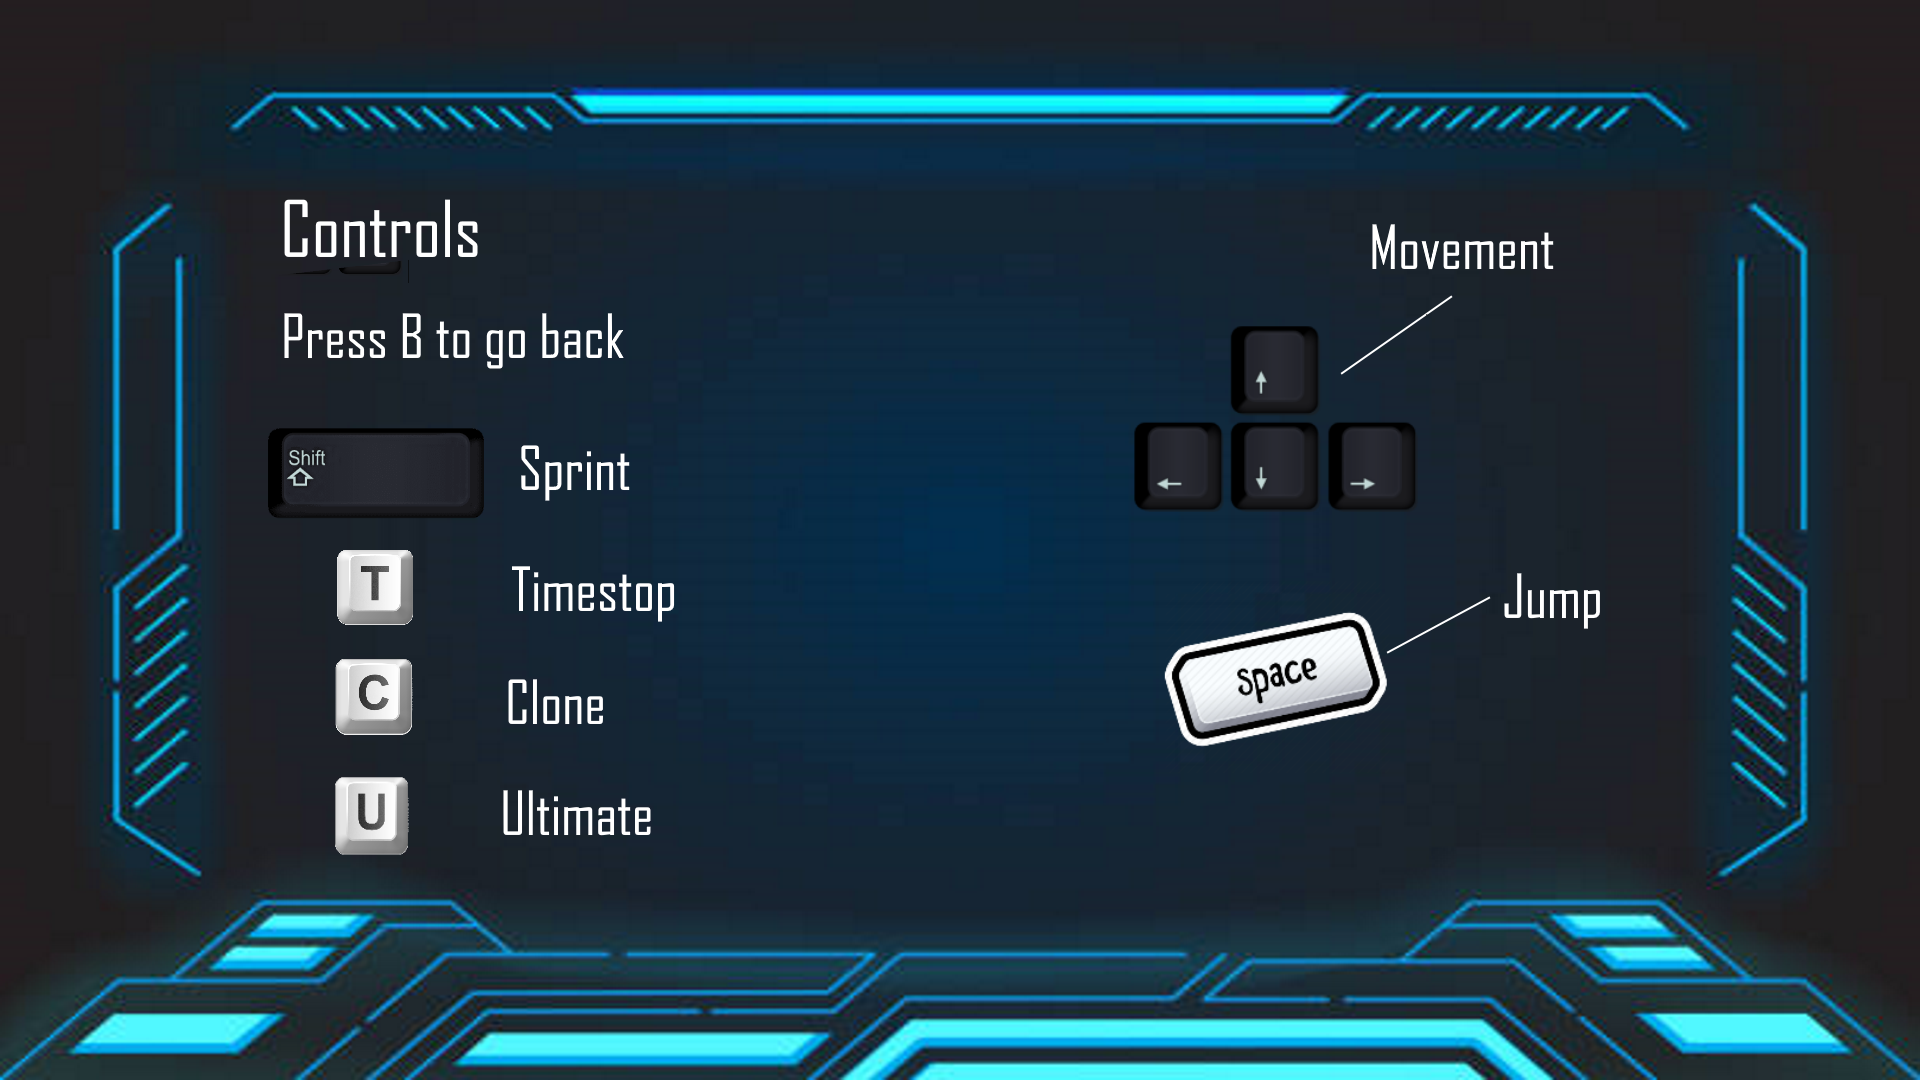
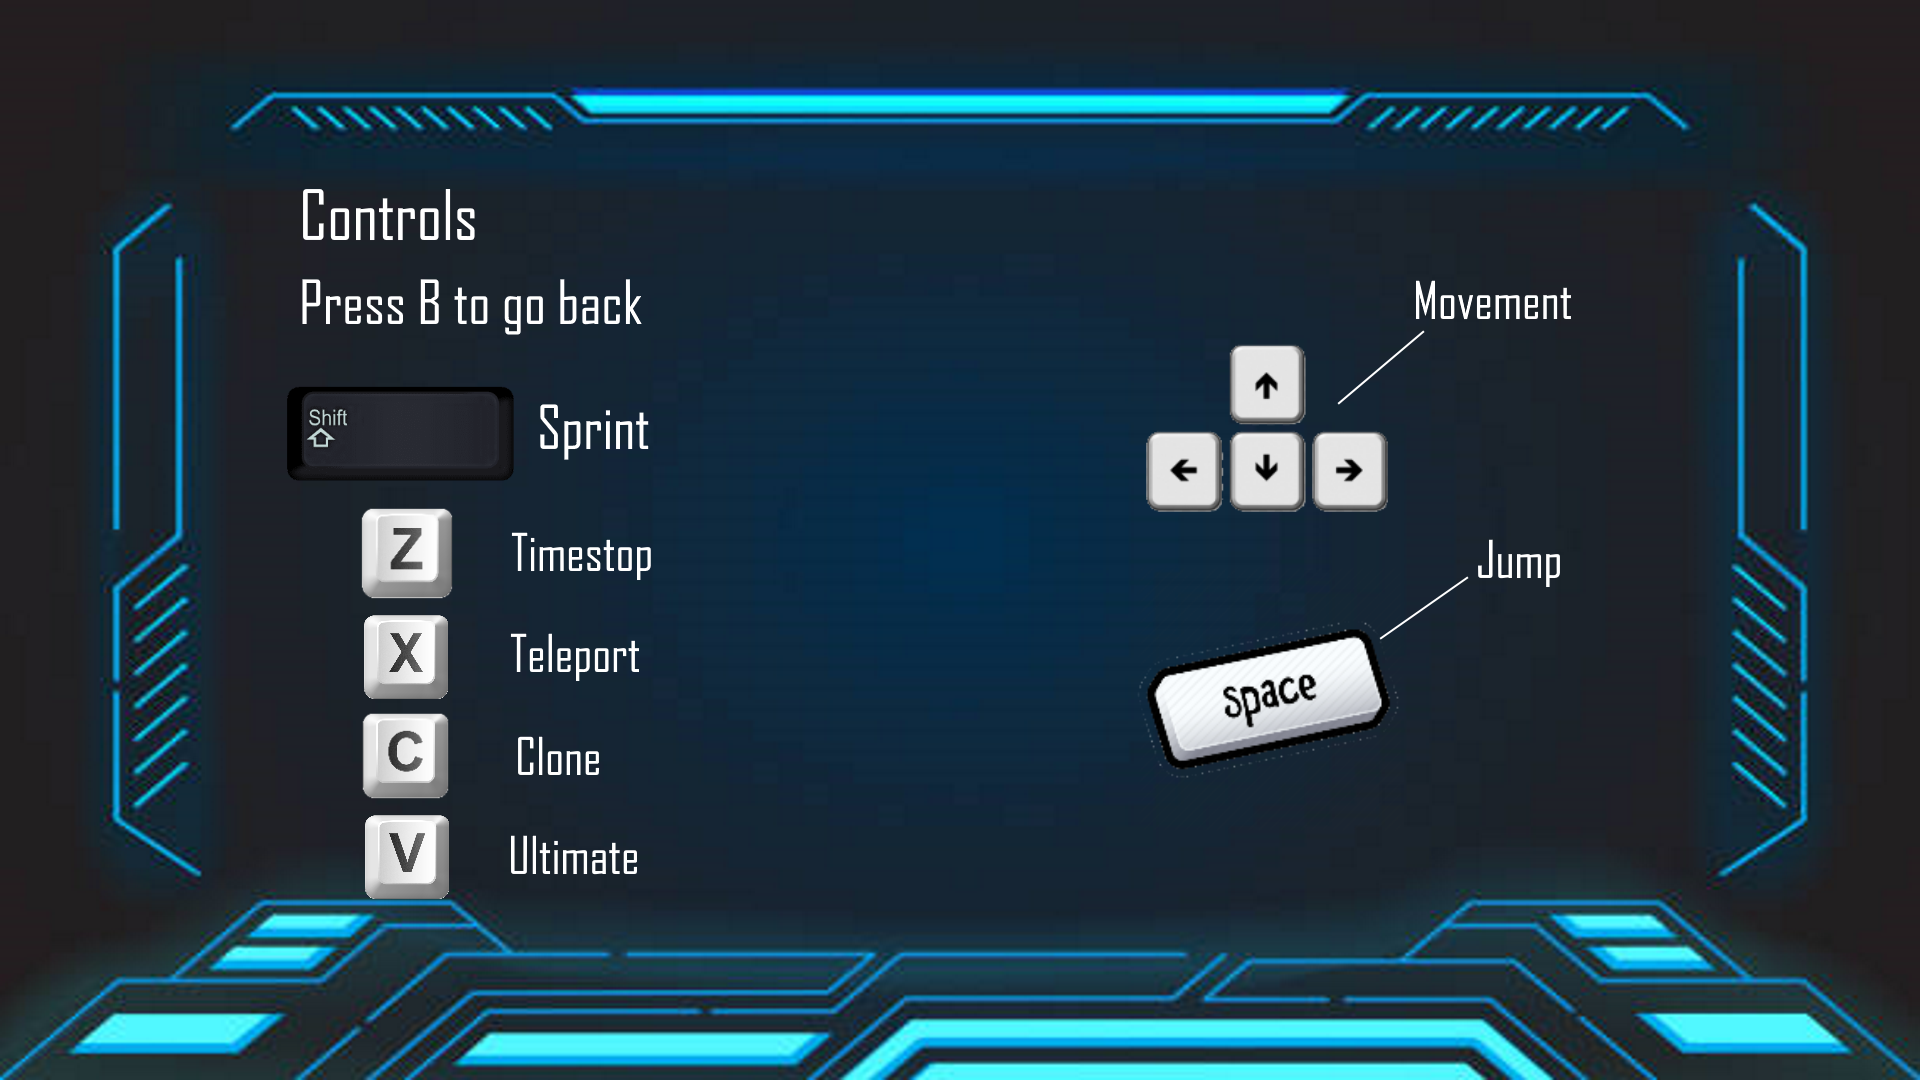
added poison effect to acid pits

diff --git a/App/Source/Scene2D/Player2D.cpp b/App/Source/Scene2D/Player2D.cpp
@@ -201,6 +201,7 @@ bool CPlayer2D::Init(void)
 	resetEnemyPos = false;
 	useUltimate = false;
 
+
 	
 
 	//CS: Create the animated sprite and setup the animation
@@ -223,6 +224,8 @@ bool CPlayer2D::Init(void)
 	powerupActive = false;
 	speedboost = false;
 	pitfallReset = false;
+	isPoisoned = false;
+	poisonTimer = 0;
 
 
 	//Set the physics to fall status by default
@@ -251,7 +254,22 @@ void CPlayer2D::Update(const double dElapsedTime)
 	if (clone == true)
 	{
 		cloneDuration += dElapsedTime;
-		
+
+	}
+
+	cInventoryItem = cInventoryManager->GetItem("Health");
+	if (isPoisoned == true)
+	{
+		cInventoryItem->Remove(0.1);
+		poisonTimer += dElapsedTime;
+		playerColour = glm::vec4(0.0, 1.0, 0.0, 1.0);
+		if (poisonTimer >= 5)
+		{
+			isPoisoned = false;
+			poisonTimer = 0;
+
+		}
+
 	}
 
 	if (cloneDuration >= 5)
@@ -558,7 +576,7 @@ void CPlayer2D::Update(const double dElapsedTime)
 			}
 		}
 
-		if (cKeyboardController->IsKeyDown(GLFW_KEY_T))
+		if (cKeyboardController->IsKeyDown(GLFW_KEY_Z))
 		{
 
 			cInventoryItem = cInventoryManager->GetItem("TimestopTimer");
@@ -590,7 +608,7 @@ void CPlayer2D::Update(const double dElapsedTime)
 		}
 	}
 
-	if (cKeyboardController->IsKeyDown(GLFW_KEY_U))
+	if (cKeyboardController->IsKeyDown(GLFW_KEY_V))
 	{
 		cInventoryItem = cInventoryManager->GetItem("Ultimate");
 
@@ -1527,10 +1545,7 @@ void CPlayer2D::InteractWithMap(void)
 		cMap2D->SetMapInfo(i32vec2Index.y + 1, i32vec2Index.x, 140);
 		break;
 	case 21:
-		pitfallReset = true;
-		CGameManager::GetInstance()->bGameToRestart = true;
-		cInventoryItem = cInventoryManager->GetItem("Lives");
-		cInventoryItem->Remove(1);
+		isPoisoned = true;
 		break;
 
 	default:
@@ -1646,7 +1661,7 @@ void CPlayer2D::SwitchFlipped(string type, int amount, float row, float col)
 
 void CPlayer2D::Teleport(void)
 {
-	if (cKeyboardController->IsKeyDown(GLFW_KEY_F) && isRemote) //Teleporting
+	if (cKeyboardController->IsKeyDown(GLFW_KEY_X) && isRemote) //Teleporting
 	{
 		if (cMap2D->GetLevel() == 2)
 		{

diff --git a/App/Source/GameStateManagement/PlayGameState.cpp b/App/Source/GameStateManagement/PlayGameState.cpp
@@ -55,6 +55,7 @@ bool CPlayGameState::Init(void)
 
 	cSoundController->LoadSound(FileSystem::getPath("Sounds\\bg_music2.ogg"), 6, true);
 
+
 	
 }
 
@@ -63,7 +64,7 @@ bool CPlayGameState::Init(void)
  */
 bool CPlayGameState::Update(const double dElapsedTime)
 {
-	if (CKeyboardController::GetInstance()->IsKeyReleased(GLFW_KEY_ESCAPE))
+	if (CKeyboardController::GetInstance()->IsKeyPressed(GLFW_KEY_ESCAPE))
 	{
 		
 
@@ -72,10 +73,11 @@ bool CPlayGameState::Update(const double dElapsedTime)
 		CKeyboardController::GetInstance()->Reset();
 
 		// Load the menu state
-	//	cSoundController->SetVolumeTo0();
+	
 		cout << "Loading MenuState" << endl;
-		CGameStateManager::GetInstance()->SetActiveGameState("MenuState");
+		CGameStateManager::GetInstance()-> SetActiveGameState("MenuState");
 		CGameStateManager::GetInstance()->OffPauseGameState();
+		//cSoundController->PlaySoundByID(14);
 		return true;
 
 	}

diff --git a/App/Source/Scene2D/Scene2D.cpp b/App/Source/Scene2D/Scene2D.cpp
@@ -371,6 +371,7 @@ bool CScene2D::Init(void)
 	cSoundController->LoadSound(FileSystem::getPath("Sounds\\player_pickup.ogg"), 12, true);
 	cSoundController->LoadSound(FileSystem::getPath("Sounds\\enemy1.ogg"), 13, true);
 	//sounds 15,16 in the menustate
+	//cSoundController->LoadSound(FileSystem::getPath("Sounds\\music_menu.ogg"), 14, true, true);
 	cSoundController->LoadSound(FileSystem::getPath("Sounds\\player_clone.ogg"), 16, true);
 	cSoundController->LoadSound(FileSystem::getPath("Sounds\\respawn_clone.ogg"), 17, true);
 	cSoundController->LoadSound(FileSystem::getPath("Sounds\\laser.ogg"), 18, true);
@@ -503,6 +504,8 @@ void CScene2D::Update(const double dElapsedTime)
 	if (cGameManager->bPlayerLost == false) {
 		cSoundController->PlaySoundByID(6);
 	}
+
+	
 
 	if (cGameManager->bGameToRestart == true)
 	{

diff --git a/App/Source/GameStateManagement/MenuState.cpp b/App/Source/GameStateManagement/MenuState.cpp
@@ -65,10 +65,13 @@ bool CMenuState::Init(void)
 	CShaderManager::GetInstance()->activeShader->setInt("texture1", 0);
 	cGameManager = CGameManager::GetInstance();
 
+
 	//Create Background Entity
 	background = new CBackgroundEntity("Image/MenuScreen.png");
 	background->SetShader("2DShader");
 	background->Init();
+
+	
 
 	// Setup Dear ImGui context
 	IMGUI_CHECKVERSION();
@@ -100,7 +103,8 @@ bool CMenuState::Init(void)
 	CreditsButtonData.textureID = il->LoadTextureGetID(CreditsButtonData.fileName.c_str(), false);
 	cSoundController = CSoundController::GetInstance();
 
-	cSoundController->LoadSound(FileSystem::getPath("Sounds\\music_menu.ogg"), 14, true, true);
+
+	cSoundController->PlaySoundByID(21);
 	cSoundController->LoadSound(FileSystem::getPath("Sounds\\buttonSound.ogg"), 15, true);
 	
 	return true;

diff --git a/App/Source/GameStateManagement/IntroState.cpp b/App/Source/GameStateManagement/IntroState.cpp
@@ -73,8 +73,8 @@ bool CIntroState::Init(void)
 	cSoundController = CSoundController::GetInstance();
 
 
-	cSoundController->LoadSound(FileSystem::getPath("Sounds\\intromusic.ogg"), 9, true);
-	cSoundController->PlaySoundByID(9);
+	cSoundController->LoadSound(FileSystem::getPath("Sounds\\intromusic.ogg"), 21, true);
+	cSoundController->PlaySoundByID(21);
 	
 
 

diff --git a/App/Source/Scene2D/Player2D.h b/App/Source/Scene2D/Player2D.h
@@ -158,19 +158,14 @@ protected:
 	bool isHealing;
 	bool slowMovementSpeed;
 	bool jumppoweractive;
-
-	
-	
 	bool playerSprinting;
 	bool respawn;
-
 	float cooldownTimer;
 	float cloneDuration;
-	
-	
-	
+	float poisonTimer;
 	bool canUsepower;
 	int switchesActivated;
+	bool isPoisoned;
 
 	//Remote Bool
 	bool isRemote = false;
